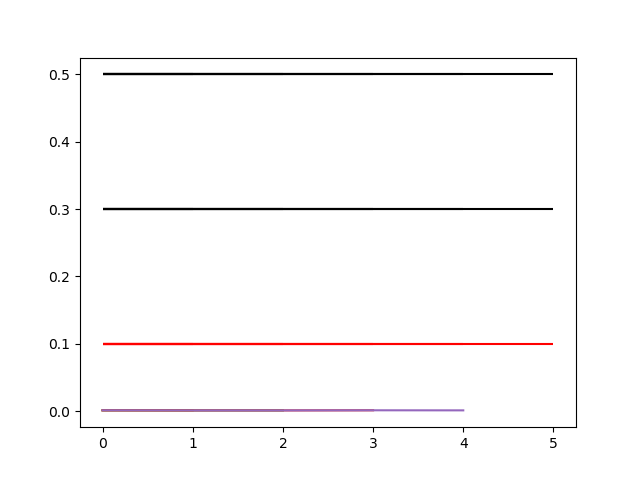
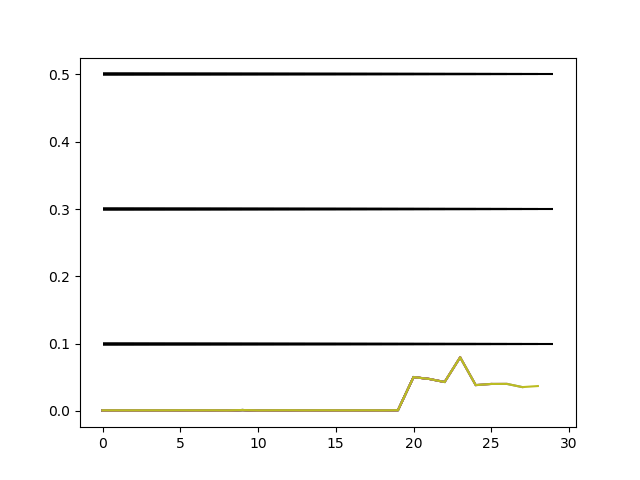
2018.11.10 modification

diff --git a/Assignment2/Control.py b/Assignment2/Control.py
@@ -41,7 +41,6 @@ def scale(service, replicas, direction = 0):
         print("scaling up to %d"%(replicas))
     else:
         print("scale down to %d"%(replicas))
-    '''print("scaling triggered...")'''
 
     # get the service - we need the version of the service object
     with urlopen("http://{manager}/services/{service}".format(manager=manager, service=service["name"]),) as url:    # just an "s", would that make difference?
@@ -58,8 +57,8 @@ def scale(service, replicas, direction = 0):
                                                                                                 version=version),
                           data=json.dumps(spec))
         if r.status_code == 200:
-            print("after scaling: ")
-            get_tasks(service, 2)
+            print("scale completed. ")
+            get_tasks(service)
         else:
             print(r.reason, r.text)
 
@@ -183,7 +182,7 @@ class CPU_Controller:
                                                                                       high=self.cpu_upper_threshold * 100))
 
             scale_num = pid.output(interval, set_point, cpu_usage_avg, cpu_usage_avg_prev, cpu_usage_avg_arr)
-            '''print("Scale parameter value: ", scale_num)'''
+            print("Scale parameter value: ", scale_num)
 
             #print("-------------")
 
@@ -264,8 +263,8 @@ for service_name, service in services.items():
     get_tasks(service, 1)
 ''''''
 cpu0 = CPU_Controller(services, "web-worker", 0.1, 0.5)
-pid_for_cpu0 = PID(1, 1, 1, 15)
+pid_for_cpu0 = PID(1.5, 0.6, 0.1, 15)
 cpu0.control(pid_for_cpu0, time_interval)
 
 # force scaling
-scale(services["web-worker"], 3, -1)   
+scale(services["web-worker"], 10, 1)
